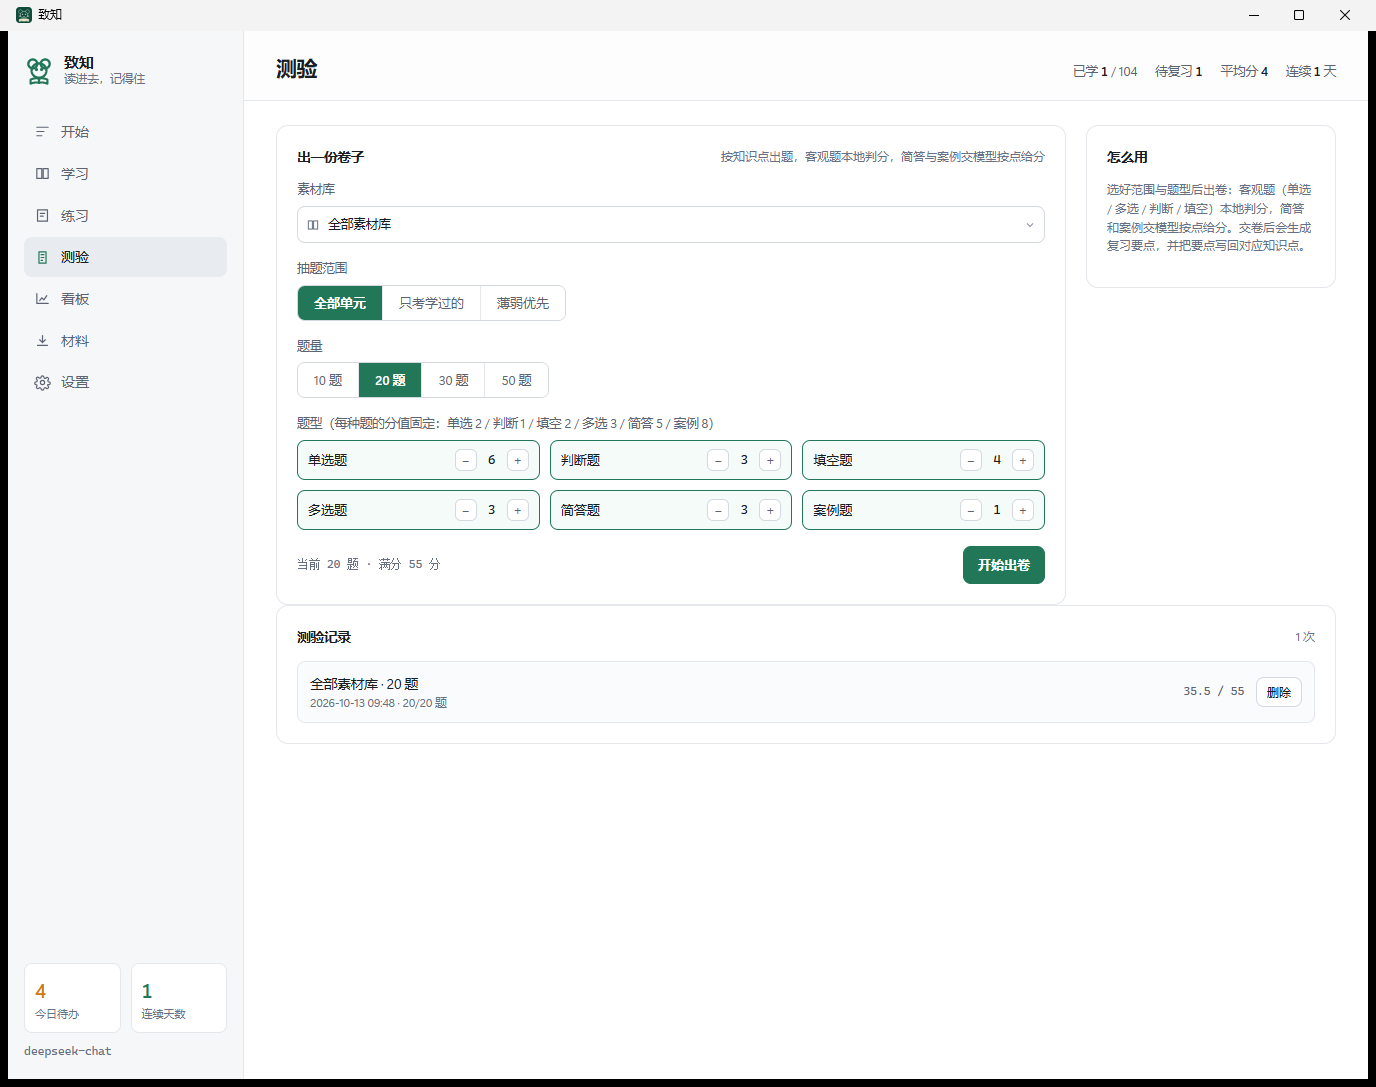
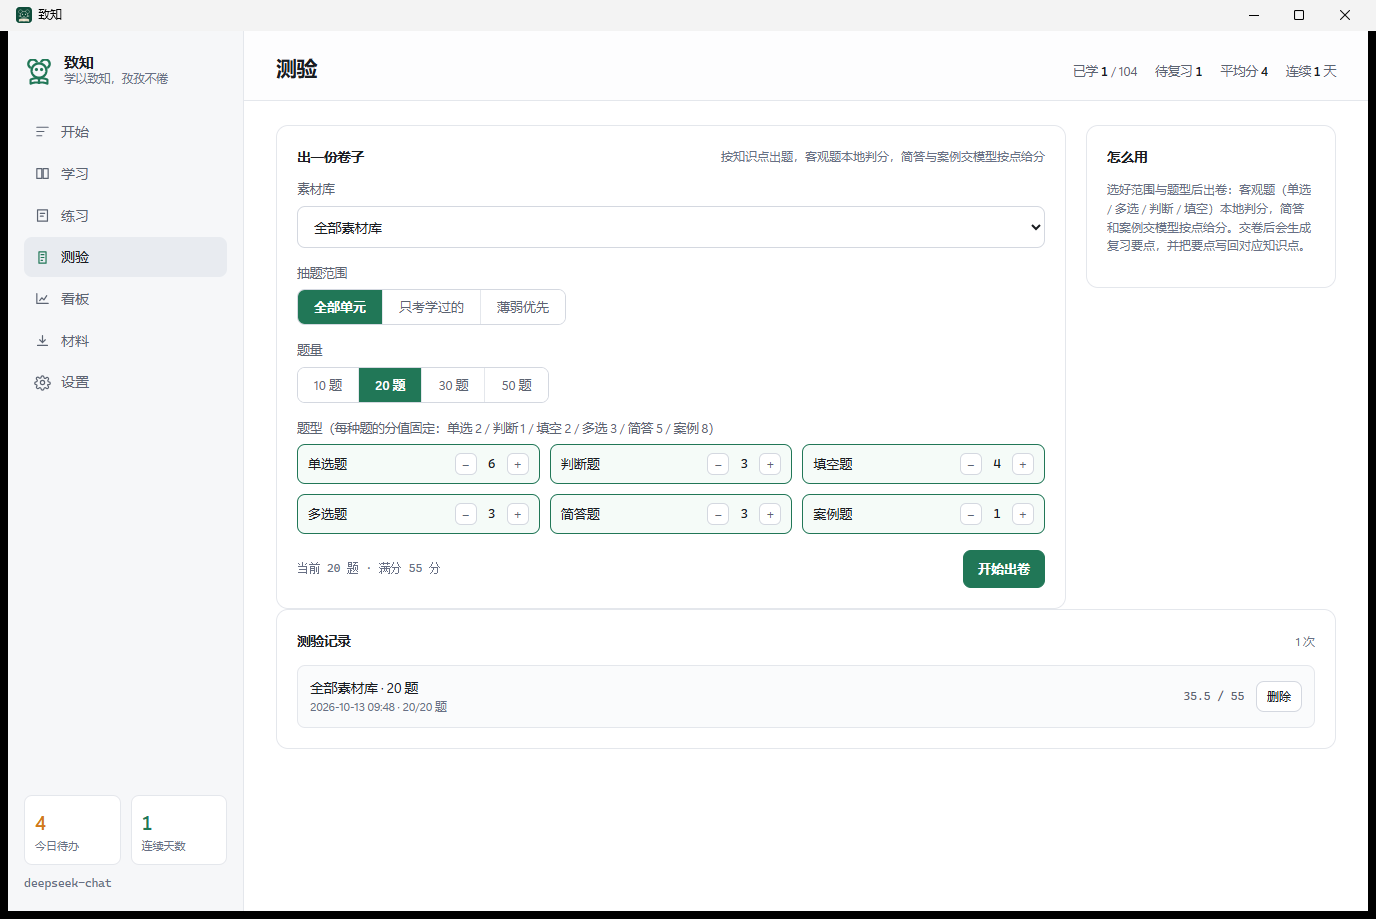
v1.0.3：品牌标记与口号更新，README 重排

diff --git a/src/index.html b/src/index.html
@@ -13,7 +13,7 @@
         <img class="brand-mark" src="mark.svg" alt="" />
         <div class="brand-text">
           <span class="brand-name">致知</span>
-          <span class="brand-sub">读进去，记得住</span>
+          <span class="brand-sub">学以致知，孜孜不倦</span>
         </div>
       </div>
 

diff --git a/scripts/make_readme_assets.py b/scripts/make_readme_assets.py
@@ -1,0 +1,84 @@
+"""生成 README 用的仓库横幅。
+
+    python scripts/make_readme_assets.py
+
+产物：shots/banner.png
+依赖：本机 Microsoft Edge（无头模式截图）与 src/mark.svg（由 make_icon.py 生成）。
+"""
+
+import pathlib
+import subprocess
+import sys
+
+EDGE = pathlib.Path(r"C:\Program Files (x86)\Microsoft\Edge\Application\msedge.exe")
+ROOT = pathlib.Path(__file__).resolve().parent.parent
+SHOTS = ROOT / "shots"
+FONT = '"Microsoft YaHei", "Segoe UI", "PingFang SC", sans-serif'
+WIDTH, HEIGHT = 1600, 420
+
+BANNER_HTML = f"""<!doctype html>
+<html lang="zh-CN"><head><meta charset="utf-8" /><style>
+  * {{ box-sizing: border-box; }}
+  body {{
+    margin: 0; width: {WIDTH}px; height: {HEIGHT}px; overflow: hidden;
+    font-family: {FONT};
+    background: linear-gradient(120deg, #ffffff 0%, #f4f7f8 58%, #edf4f1 100%);
+    position: relative;
+  }}
+  .glow {{
+    position: absolute; right: -120px; top: -140px; width: 720px; height: 720px;
+    border-radius: 50%;
+    background: radial-gradient(circle, rgba(4,120,87,0.13) 0%, rgba(4,120,87,0.04) 45%, rgba(4,120,87,0) 70%);
+  }}
+  .grid {{
+    position: absolute; inset: 0;
+    background-image: radial-gradient(rgba(15,23,42,0.055) 1.4px, transparent 1.4px);
+    background-size: 26px 26px;
+    mask-image: linear-gradient(100deg, rgba(0,0,0,0.9) 0%, rgba(0,0,0,0.25) 55%, rgba(0,0,0,0) 80%);
+  }}
+  .wrap {{ position: relative; height: 100%; display: flex; align-items: center; gap: 40px; padding: 0 84px; }}
+  .mark {{ width: 132px; height: 132px; flex: none; }}
+  .name {{ display: flex; align-items: baseline; gap: 22px; font-size: 78px; font-weight: 700; letter-spacing: 0.06em; color: #101828; line-height: 1.05; }}
+  .motto {{ font-size: 27px; font-weight: 500; color: #047857; letter-spacing: 0.06em; }}
+  .rule {{ width: 92px; height: 4px; border-radius: 2px; background: #047857; margin: 22px 0 0; }}
+  .meta {{ margin-top: 18px; font-size: 19px; color: #667085; letter-spacing: 0.06em; }}
+  .feat {{ margin-top: 12px; font-size: 16px; color: #98a2b3; letter-spacing: 0.04em; }}
+</style></head>
+<body>
+  <div class="grid"></div>
+  <div class="glow"></div>
+  <div class="wrap">
+    <img class="mark" src="../src/mark.svg" alt="" />
+    <div>
+      <div class="name">致知<span class="motto">学以致知，孜孜不倦</span></div>
+      <div class="rule"></div>
+      <div class="meta">把一份资料，变成一套清晰的学习计划</div>
+      <div class="feat">大模型出题与批改 · FSRS 记忆曲线复习安排 · 网页 / PDF / Word 一键导入 · 知识地图看板</div>
+    </div>
+  </div>
+</body></html>
+"""
+
+
+def main() -> None:
+    if not EDGE.exists():
+        raise SystemExit("找不到 Edge，无法截图")
+    page = SHOTS / "banner.html"
+    # 改文件名是为了绕开 GitHub / 浏览器的图片缓存，内容有更新时把这个编号往上加
+    out = SHOTS / "banner-v3.png"
+    page.write_text(BANNER_HTML, encoding="utf-8")
+    out.unlink(missing_ok=True)
+    command = [
+        str(EDGE), "--headless=new", "--disable-gpu", "--no-sandbox", "--hide-scrollbars",
+        "--force-device-scale-factor=1.5", f"--window-size={WIDTH},{HEIGHT}",
+        f"--screenshot={out}", page.as_uri(),
+    ]
+    result = subprocess.run(command, capture_output=True, timeout=180)
+    page.unlink(missing_ok=True)
+    if not out.exists():
+        raise SystemExit(f"截图失败 rc={result.returncode}: {result.stderr[:200]!r}")
+    print(f"{out.name}  {out.stat().st_size // 1024} KB")
+
+
+if __name__ == "__main__":
+    sys.exit(main())

diff --git a/scripts/make_icon.py b/scripts/make_icon.py
@@ -119,9 +119,16 @@ def build_mark(color: str = "currentColor") -> str:
          f'width="{SIZE}" height="{SIZE}" fill="none" stroke="currentColor" '
          f'stroke-linecap="round" stroke-linejoin="round">']
 
-    # 耳朵与头
+    # 耳朵：只留露在脑袋外面的那一截。用遮罩把落在头部轮廓里的部分切掉，
+    # 否则耳朵圆的下半圈会穿进脑袋里，看起来像多画了一道线。
+    s.append('<defs><mask id="zhizhi-ear">'
+             f'<rect width="{SIZE}" height="{SIZE}" fill="#fff"/>'
+             '<ellipse cx="256" cy="266" rx="146" ry="142" fill="#000"/>'
+             '</mask></defs>')
+    s.append('<g mask="url(#zhizhi-ear)">')
     s.append(line(ellipse(150, 152, 76, 76), width=40, color="currentColor"))
     s.append(line(ellipse(362, 152, 76, 76), width=40, color="currentColor"))
+    s.append('</g>')
     s.append(line(ellipse(256, 266, 126, 122), width=40, color="currentColor"))
 
     # 眼睛

diff --git a/src-tauri/src/lib.rs b/src-tauri/src/lib.rs
@@ -654,7 +654,7 @@ fn setup_tray(app: &tauri::App) -> tauri::Result<()> {
     let menu = Menu::with_items(app, &[&show, &quit])?;
 
     let mut builder = TrayIconBuilder::with_id("main")
-        .tooltip("致知 · 读进去，记得住")
+        .tooltip("致知 · 学以致知，孜孜不倦")
         .menu(&menu)
         .show_menu_on_left_click(false)
         .on_menu_event(|app, event| match event.id.as_ref() {

diff --git a/README.md b/README.md
@@ -1,6 +1,8 @@
+![致知](shots/banner-v3.png)
+
 # 致知 · zhizhiStudy
 
-> 把一份资料变成一套清晰的学习计划：知识点、自测题、复习安排，都在一个窗口里完成。
+> 学以致知，孜孜不倦：把一份资料变成一套清晰的学习计划，知识点、自测题、复习安排都在一个窗口里完成。
 
 [![License: MIT](https://img.shields.io/badge/License-MIT-yellow.svg)](LICENSE)
 [![Release](https://img.shields.io/github/v/release/wenbuer/zhizhiStudy)](https://github.com/wenbuer/zhizhiStudy/releases)
@@ -15,29 +17,22 @@
 
 ## 界面
 
-![开始](shots/start.png)
+<table>
+  <tr>
+    <td width="50%"><img src="shots/start.png" alt="开始页" /><br /><sub>开始：今天要做什么，一眼看清</sub></td>
+    <td width="50%"><img src="shots/materials.png" alt="材料页" /><br /><sub>材料：链接、文件、粘贴都能导入</sub></td>
+  </tr>
+  <tr>
+    <td><img src="shots/learn.png" alt="学习页" /><br /><sub>学习：按章节读讲解，读完自测</sub></td>
+    <td><img src="shots/quiz.png" alt="测验出卷" /><br /><sub>测验：选好范围与题型，自动出卷</sub></td>
+  </tr>
+  <tr>
+    <td><img src="shots/quiz-result.png" alt="测验成绩与复习要点" /><br /><sub>成绩：交卷即出分与复习要点</sub></td>
+    <td><img src="shots/insight.png" alt="学习看板" /><br /><sub>看板：知识地图、复习计划与阶段指导</sub></td>
+  </tr>
+</table>
 
-> 开始页：今天要做的都在这里，学完自动划掉。
-
-![学习](shots/learn.png)
-
-> 学习页：左侧是按章节分好的目录，右侧是完整讲解，读完有要点和自测题。
-
-![测验](shots/quiz.png)
-
-> 测验：选好范围与题型，一份卷子自动出好。
-
-![测验成绩](shots/quiz-result.png)
-
-> 交卷即出分，逐题回顾并生成复习要点，写到对应知识点上。
-
-![看板](shots/insight.png)
-
-> 看板：知识地图、复习计划、阶段指导三张图，一眼看清进度。
-
-![设置](shots/settings.png)
-
-> 设置：模型接口、网络代理、每日提醒、开机自启，改完立即生效。
+<sub>另有**练习**页负责单卡作答与复习排期，**设置**页负责模型接口、网络代理与每日提醒。</sub>
 
 ## 功能
 
